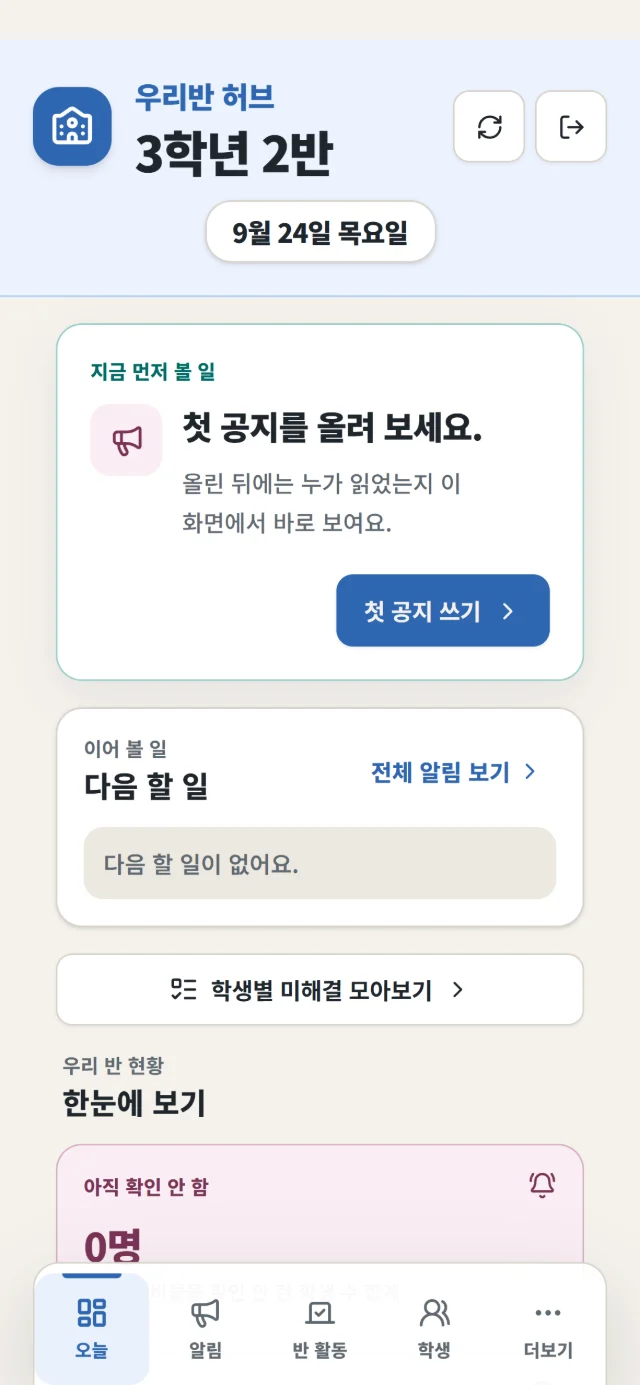
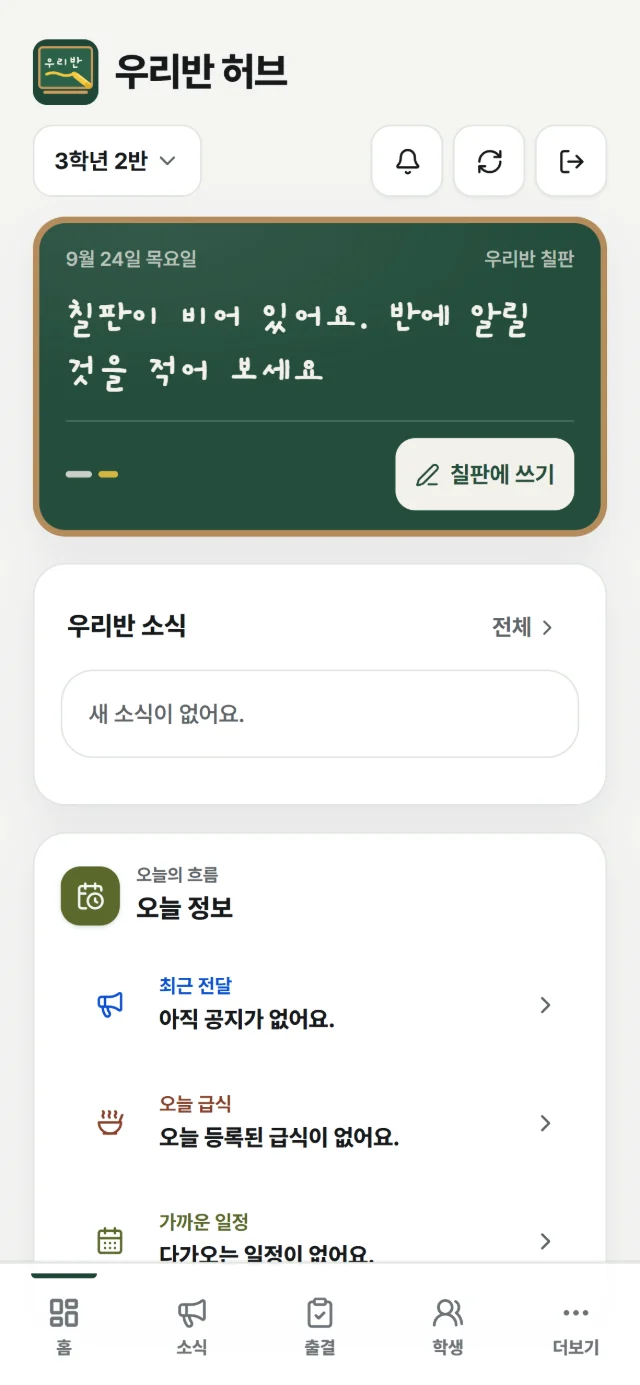
우리반 허브 소개: 새 화면에 맞춰 글 고침 — 첫 화면 홈 사진 설명, 처음 쓰는 날(칠판에 쓰기) 사진·안내, 뽑기 시간 카드 사진을 새 홈으로
'알림 탭' 문구는 소식 화면 보완이 끝나면 사진과 함께 바꾼다.

diff --git a/index.html b/index.html
@@ -59,11 +59,11 @@
       <div class="hero__visual">
         <div class="duo">
           <figure class="device">
-            <div class="device__body"><img src="assets/shots/teacher-home-640.webp" srcset="assets/shots/teacher-home-640.webp 640w, assets/shots/teacher-home-900.webp 900w, assets/shots/teacher-home.png 1170w" sizes="(min-width:600px) 270px, 72vw" width="390" height="844" loading="lazy" alt="선생님 홈 화면: 맨 위 '지금 먼저 볼 일' 카드에 처리할 일이 먼저 보이고, 아래에 다음 할 일과 우리 반 현황이 있음"></div>
+            <div class="device__body"><img src="assets/shots/teacher-home-640.webp" srcset="assets/shots/teacher-home-640.webp 640w, assets/shots/teacher-home-900.webp 900w, assets/shots/teacher-home.png 1170w" sizes="(min-width:600px) 270px, 72vw" width="390" height="844" loading="lazy" alt="선생님 홈 화면: 맨 위 우리반 칠판에 중요한 공지와 챙길 준비물, 그 아래 처리할 일(출결·도움), 공지마다 확인한 학생 수가 보이는 우리반 소식"></div>
             <figcaption><span class="tag tag--teacher">선생님</span> 홈 화면</figcaption>
           </figure>
           <figure class="device">
-            <div class="device__body"><img src="assets/shots/student-home-640.webp" srcset="assets/shots/student-home-640.webp 640w, assets/shots/student-home-900.webp 900w, assets/shots/student-home.png 1170w" sizes="(min-width:600px) 270px, 72vw" width="390" height="844" fetchpriority="high" alt="학생 홈 화면: 맨 위 '지금 먼저 할 일'에 아직 확인하지 않은 공지와 '읽고 확인하기' 버튼, 그 아래 챙길 준비물"></div>
+            <div class="device__body"><img src="assets/shots/student-home-640.webp" srcset="assets/shots/student-home-640.webp 640w, assets/shots/student-home-900.webp 900w, assets/shots/student-home.png 1170w" sizes="(min-width:600px) 270px, 72vw" width="390" height="844" fetchpriority="high" alt="학생 홈 화면: '선생님께 물어보기' 버튼, 아직 안 본 공지와 준비물이 적힌 우리반 칠판, 오늘 급식과 가까운 일정, 우리반 소식"></div>
             <figcaption><span class="tag tag--student">학생</span> 홈 화면</figcaption>
           </figure>
         </div>
@@ -115,14 +115,14 @@
           <figcaption><b>3</b> · 학생 승인하기</figcaption>
         </figure>
         <figure class="device">
-          <div class="device__body"><img src="assets/shots/teacher-first-day-640.webp" srcset="assets/shots/teacher-first-day-640.webp 640w, assets/shots/teacher-first-day-900.webp 900w, assets/shots/teacher-first-day.png 1170w" sizes="(min-width:600px) 236px, 62vw" width="390" height="844" loading="lazy" alt="학생 승인 뒤 선생님 홈: '지금 먼저 볼 일'에 '첫 공지를 올려 보세요' 안내와 '첫 공지 쓰기' 버튼"></div>
-          <figcaption><b>4</b> · 첫 공지 쓰기 안내</figcaption>
+          <div class="device__body"><img src="assets/shots/teacher-first-day-640.webp" srcset="assets/shots/teacher-first-day-640.webp 640w, assets/shots/teacher-first-day-900.webp 900w, assets/shots/teacher-first-day.png 1170w" sizes="(min-width:600px) 236px, 62vw" width="390" height="844" loading="lazy" alt="학생 승인 뒤 선생님 홈: 우리반 칠판에 '칠판이 비어 있어요. 반에 알릴 것을 적어 보세요' 안내와 '칠판에 쓰기' 버튼"></div>
+          <figcaption><b>4</b> · 칠판에 첫 공지 쓰기</figcaption>
         </figure>
       </div>
       <p class="strip-hint" aria-hidden="true">옆으로 넘겨 더 보기 →</p>
       <div class="tipnote reveal">
         <svg width="22" height="22" viewBox="0 0 24 24" fill="none" stroke="currentColor" stroke-width="2.2" stroke-linecap="round" stroke-linejoin="round" aria-hidden="true"><path d="M9 18h6M10 22h4M12 2a7 7 0 0 0-4 12.7c.6.5 1 1.2 1 2V17h6v-.3c0-.8.4-1.5 1-2A7 7 0 0 0 12 2z"/></svg>
-        <div><strong>다음에 할 일을 알려 줘요.</strong><p>학생을 모두 승인하면 선생님 홈에 '첫 공지 쓰기' 버튼이 먼저 나와요. 처음 쓰는 날에도 무엇을 먼저 할지 알 수 있어요.</p></div>
+        <div><strong>다음에 할 일을 알려 줘요.</strong><p>칠판이 비어 있으면 선생님 홈의 우리반 칠판에 '칠판에 쓰기' 버튼이 나와요. 누르면 바로 첫 공지를 쓸 수 있어요. 학생 칠판에는 각자 아직 안 본 것만 보여요.</p></div>
       </div>
     </div>
   </section>
@@ -440,7 +440,7 @@
         <h2 id="tools-title" class="h2">발표자를 뽑을 때는 '뽑기 시간'을 써 보세요.</h2>
       </div>
       <a class="tool-card reveal" href="ppobgi">
-        <span class="tool-card__img"><img src="assets/ppobgi/hero-ddororeu-700.webp" srcset="assets/ppobgi/hero-ddororeu-700.webp 700w, assets/ppobgi/hero-ddororeu-1340.webp 1340w" sizes="(min-width:900px) 600px, 100vw" width="700" height="388" loading="lazy" alt="뽑기 시간 앱의 또르르 화면: 칠판 경주판에서 출발을 기다리는 번호 공들"></span>
+        <span class="tool-card__img"><img src="assets/ppobgi/hero-home-700.webp" srcset="assets/ppobgi/hero-home-700.webp 700w, assets/ppobgi/hero-home-1340.webp 1340w" sizes="(min-width:900px) 600px, 100vw" width="700" height="388" loading="lazy" alt="뽑기 시간 앱의 홈 화면: 왼쪽에 포스트잇 메뉴, 가운데 출결 번호판, 오른쪽에 룰렛·또르르·로또·캡슐 뽑기·타이머 카드"></span>
         <span class="tool-card__body">
           <span class="tool-card__kicker">교실 발표자 뽑기 · Windows용 무료 프로그램</span>
           <strong>뽑기 시간</strong>
